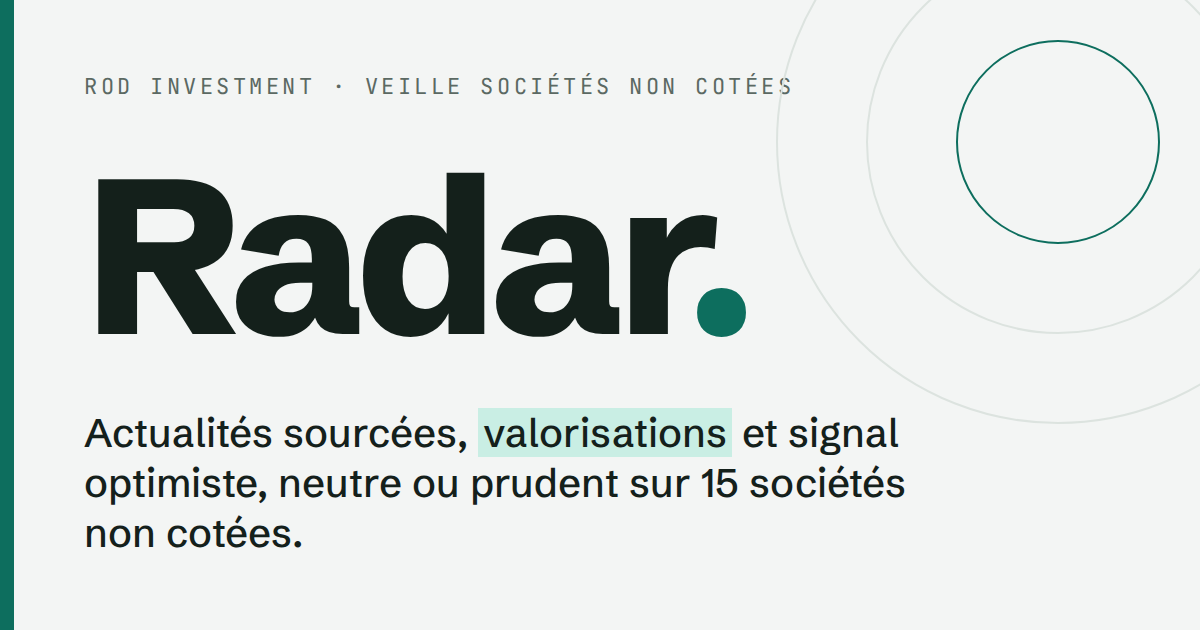
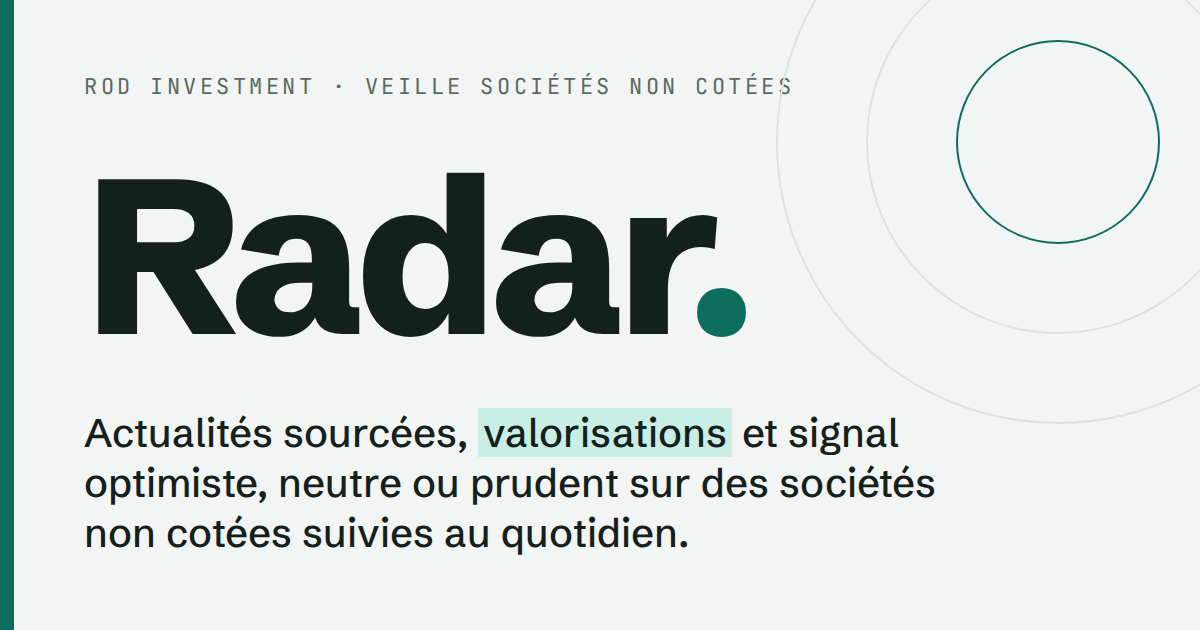
Veille : Perplexity ajouté ; requêtes multiples par société (#20)
- Perplexity : fiche, quatre valorisations (presse), chiffres clés, requêtes ; autorisé dans validate.py.
- news_feed.py --societe <id> lance toutes les requêtes de la société (newsQuery + newsQueriesExtra) et fusionne
  les résultats : Google News perd des titres quand on imbrique OR et parenthèses dans une seule requête.
  coverage.py fait de même et respecte enfin la fenêtre demandée.
- Requêtes complémentaires pour les 15 sociétés (dirigeants, produits, mots du métier).
- Textes « 15 sociétés » rendus dynamiques ; image d'aperçu sans nombre.

Claude-Session: https://claude.ai/code/session_01Js6YpPeErY5qnMZ34J9wu7

Changed region(s): [[0.2467, 0.8143, 0.5858, 0.8746], [0.5858, 0.7238, 0.8017, 0.8143]]

diff --git a/radar-site/app.js b/radar-site/app.js
@@ -420,7 +420,7 @@ if (location.protocol === 'http:' && location.hostname !== 'localhost') {
         el('span',{class:'t'}, a.title), el('span',{class:'sm'}, a.summary||''))); };
     app.replaceChildren(el('section',{class:'week'},
       el('div',{class:'cmp-head'},
-        el('div',null, el('span',{class:'eyebrow'},'Synthèse hebdomadaire'), el('h2',null,'La semaine du Radar'), el('p',{class:'lead'}, 'Semaine '+weekLabel(mon)+'. Les faits marquants des 15 sociétés suivies.')),
+        el('div',null, el('span',{class:'eyebrow'},'Synthèse hebdomadaire'), el('h2',null,'La semaine du Radar'), el('p',{class:'lead'}, 'Semaine '+weekLabel(mon)+'. Les faits marquants des '+S.companies.length+' sociétés suivies.')),
         el('div',{class:'hero-actions'},
           el('button',{class:'btn ghost small',type:'button',onclick:()=>go(addDays(mon,-7))},'‹ Semaine précédente'),
           el('button',{class:'btn ghost small',type:'button',disabled:mon>=cur,onclick:()=>go(addDays(mon,7))},'Semaine suivante ›'),
@@ -480,7 +480,7 @@ if (location.protocol === 'http:' && location.hostname !== 'localhost') {
     app.replaceChildren(el('section',{class:'cmp'},
       el('div',{class:'cmp-head'},
         el('div',null, el('h2',null,'Comparer les sociétés'),
-          el('p',{class:'lead'},'Les 15 sociétés suivies, avec leur dernière valorisation officielle et l\'activité de la veille. Cliquez sur un en-tête pour trier, sur une ligne pour ouvrir la fiche.')),
+          el('p',{class:'lead'},'Les '+S.companies.length+' sociétés suivies, avec leur dernière valorisation officielle et l\'activité de la veille. Cliquez sur un en-tête pour trier, sur une ligne pour ouvrir la fiche.')),
         linkBtn(articleUrl('comparer'), 'Comparatif Radar')),
       el('div',{class:'tbl-wrap'}, el('table',{class:'tbl'},
         el('thead',null, el('tr',null, th('name','Société'), th('valo','Valorisation officielle'), th('round','Tour'), el('th',null,'Selon la presse'), th('arts','Articles','num'), el('th',null,'Tonalité'), th('last','Dernière actualité'))),

diff --git a/radar-site/s/perplexity.html b/radar-site/s/perplexity.html
@@ -1,0 +1,30 @@
+<!doctype html>
+<html lang="fr">
+<head>
+<meta charset="utf-8">
+<meta name="viewport" content="width=device-width, initial-scale=1">
+<title>Perplexity · fiche société du Radar</title>
+<meta name="description" content="Moteur de réponses par IA, navigateur Comet et agents autonomes. 0 actualité suivie par le Radar.">
+<meta name="robots" content="noindex, follow">
+<link rel="canonical" href="https://radar.rod-investment.fr/s/perplexity">
+<meta property="og:site_name" content="Radar ROD Investment">
+<meta property="og:type" content="website">
+<meta property="og:locale" content="fr_FR">
+<meta property="og:title" content="Perplexity · fiche société du Radar">
+<meta property="og:description" content="Moteur de réponses par IA, navigateur Comet et agents autonomes. 0 actualité suivie par le Radar.">
+<meta property="og:url" content="https://radar.rod-investment.fr/s/perplexity">
+<meta property="og:image" content="https://radar.rod-investment.fr/og/radar.png">
+<meta property="og:image:width" content="1200">
+<meta property="og:image:height" content="630">
+<meta property="og:image:alt" content="Radar. ROD Investment, veille sociétés non cotées">
+
+<meta name="twitter:card" content="summary_large_image">
+<meta name="twitter:title" content="Perplexity · fiche société du Radar">
+<meta name="twitter:description" content="Moteur de réponses par IA, navigateur Comet et agents autonomes. 0 actualité suivie par le Radar.">
+<meta name="twitter:image" content="https://radar.rod-investment.fr/og/radar.png">
+<meta name="theme-color" content="#0D6E5E">
+<meta http-equiv="refresh" content="0; url=/#societe/perplexity">
+<style>body{margin:0;font:16px/1.5 system-ui,sans-serif;background:#F3F5F4;color:#14201B;display:grid;place-items:center;min-height:100vh;padding:16px;box-sizing:border-box}a{color:#0D6E5E}</style>
+</head>
+<body><p><a href="/#societe/perplexity">Ouvrir sur le Radar</a></p></body>
+</html>

diff --git a/radar-site/index.html b/radar-site/index.html
@@ -419,7 +419,7 @@ h1 .dot{color:var(--accent)}
 <div id="sheetRoot"></div>
 <div id="printRoot"></div>
 
-<script src="app.js?v=2026-10-07d" defer></script>
+<script src="app.js?v=2026-10-09a" defer></script>
 
 </body>
 </html>

diff --git a/scripts/news_feed.py b/scripts/news_feed.py
@@ -1,40 +1,62 @@
 #!/usr/bin/env python3
 """Liste les titres Google News récents sur une société, en français et en anglais.
 
-Usage : python3 scripts/news_feed.py '<requête>' [jours] [--liens]
-  <requête> : syntaxe Google News, par ex. '"Mistral AI" OR "Arthur Mensch"' ou
-              'Kraken (crypto OR exchange OR Payward)'. Jours par défaut : 2.
-Affiche une ligne par titre : date UTC | média | titre | site du média (et le lien Google News avec --liens).
-Les liens Google News sont des redirections : pour lire l'article, cherche le titre exact
-(WebSearch) ou ouvre le site du média indiqué.
+Usage :
+  python3 scripts/news_feed.py --societe <id> [jours] [--liens]
+      Lance toutes les requêtes de la société (champs "newsQuery" et "newsQueriesExtra" de companies.json)
+      et fusionne les résultats. C'est l'usage normal du passage de veille.
+  python3 scripts/news_feed.py '<requête>' [jours] [--liens]
+      Une requête libre, syntaxe Google News, par ex. '"Mistral AI" OR "Arthur Mensch"'.
+Jours par défaut : 2. Affiche une ligne par titre : date UTC | média | titre | site du média (et le lien Google News avec --liens).
+Les liens Google News sont des redirections : pour lire l'article, cherche le titre exact (WebSearch) ou ouvre le site du média.
+Plusieurs requêtes simples valent mieux qu'une seule longue : Google News perd des résultats quand on imbrique OR et parenthèses.
 """
-import sys, re, html, signal, urllib.parse, urllib.request
+import sys, os, re, json, html, signal, urllib.parse, urllib.request
 signal.signal(signal.SIGPIPE, signal.SIG_DFL)
 from email.utils import parsedate_to_datetime
 
-args = [a for a in sys.argv[1:] if a != '--liens']
-links = '--liens' in sys.argv
-name = args[0]
-days = args[1] if len(args) > 1 else '2'
-seen = set()
-rows = []
-for hl, gl, ceid in (('fr', 'FR', 'FR:fr'), ('en-US', 'US', 'US:en')):
-    q = urllib.parse.quote(f'{name} when:{days}d')
-    url = f'https://news.google.com/rss/search?q={q}&hl={hl}&gl={gl}&ceid={ceid}'
-    try:
-        xml = urllib.request.urlopen(url, timeout=20).read().decode('utf-8', 'replace')
-    except Exception as e:
-        print(f'# flux {hl} indisponible : {e}', file=sys.stderr); continue
-    for item in re.findall(r'<item>(.*?)</item>', xml, re.S):
-        g = lambda tag: (re.search(rf'<{tag}[^>]*>(.*?)</{tag}>', item, re.S) or [None, ''])[1]
-        title = html.unescape(g('title')).strip()
-        src = re.search(r'<source url="([^"]+)">(.*?)</source>', item)
-        try: d = parsedate_to_datetime(g('pubDate')).strftime('%Y-%m-%d %H:%M')
-        except Exception: d = '?'
-        key = title.lower()[:80]
-        if key in seen: continue
-        seen.add(key)
-        rows.append((d, html.unescape(src.group(2)) if src else '?', title, src.group(1) if src else '?', g('link').strip()))
-rows.sort(reverse=True)
-print(f'# {name} : {len(rows)} titres sur {days} jour(s)')
-for r in rows: print(' | '.join(r if links else r[:4]))
+def queries_for(cid):
+    p = os.path.join(os.path.dirname(os.path.abspath(__file__)), '..', 'radar-site', 'data', 'companies.json')
+    c = next((c for c in json.load(open(p, encoding='utf-8')) if c['id'] == cid), None)
+    if not c: sys.exit(f'société inconnue : {cid}')
+    return [q for q in [c.get('newsQuery')] + list(c.get('newsQueriesExtra', [])) if q]
+
+def fetch(query, days):
+    """Titres Google News (FR et EN) pour une requête : liste de (date, média, titre, site, lien)."""
+    rows = []
+    for hl, gl, ceid in (('fr', 'FR', 'FR:fr'), ('en-US', 'US', 'US:en')):
+        q = urllib.parse.quote(f'{query} when:{days}d')
+        url = f'https://news.google.com/rss/search?q={q}&hl={hl}&gl={gl}&ceid={ceid}'
+        try:
+            xml = urllib.request.urlopen(urllib.request.Request(url, headers={'User-Agent': 'Mozilla/5.0'}), timeout=20).read().decode('utf-8', 'replace')
+        except Exception as e:
+            print(f'# flux {hl} indisponible pour {query} : {e}', file=sys.stderr); continue
+        for item in re.findall(r'<item>(.*?)</item>', xml, re.S):
+            g = lambda tag: (re.search(rf'<{tag}[^>]*>(.*?)</{tag}>', item, re.S) or [None, ''])[1]
+            title = html.unescape(g('title')).strip()
+            src = re.search(r'<source url="([^"]+)">(.*?)</source>', item)
+            try: d = parsedate_to_datetime(g('pubDate')).strftime('%Y-%m-%d %H:%M')
+            except Exception: d = '?'
+            rows.append((d, html.unescape(src.group(2)) if src else '?', title, src.group(1) if src else '?', g('link').strip()))
+    return rows
+
+def merged(queries, days):
+    seen, out = set(), []
+    for q in queries:
+        for r in fetch(q, days):
+            key = r[2].lower()[:80]
+            if key in seen: continue
+            seen.add(key); out.append(r)
+    return sorted(out, reverse=True)
+
+if __name__ == '__main__':
+    args = [a for a in sys.argv[1:] if a != '--liens']
+    links = '--liens' in sys.argv
+    if args and args[0] == '--societe':
+        name, queries, rest = args[1], queries_for(args[1]), args[2:]
+    else:
+        name, queries, rest = args[0], [args[0]], args[1:]
+    days = rest[0] if rest else '2'
+    rows = merged(queries, days)
+    print(f'# {name} : {len(rows)} titres sur {days} jour(s), {len(queries)} requête(s)')
+    for r in rows: print(' | '.join(r if links else r[:4]))

diff --git a/scripts/coverage.py b/scripts/coverage.py
@@ -30,10 +30,10 @@ def toks(s): return {w[:5] for w in re.findall(r"[a-z0-9]+", fold(s)) if len(w) 
 JUNK = re.compile(r"how to (buy|invest)|comment (acheter|investir)|investir dans|investing in|pre-?ipo shares|stock price|share price|"
     r"\bbest\b.*\b(services|tools|alternatives)\b|\btop \d+|alternatives? to|vs\.? |review\b|prediction:|price prediction", re.I)
 
-def feed(query):
+def feed(queries):
     out = []
-    for hl, gl, ceid in (('fr', 'FR', 'FR:fr'), ('en-US', 'US', 'US:en')):
-        q = urllib.parse.quote(f'{query} when:2d')
+    for query, (hl, gl, ceid) in [(q, l) for q in queries for l in (('fr', 'FR', 'FR:fr'), ('en-US', 'US', 'US:en'))]:
+        q = urllib.parse.quote(f'{query} when:{max(1, -(-HOURS // 24))}d')
         url = f'https://news.google.com/rss/search?q={q}&hl={hl}&gl={gl}&ceid={ceid}'
         try: xml = urllib.request.urlopen(urllib.request.Request(url, headers={'User-Agent': 'Mozilla/5.0'}), timeout=20).read().decode('utf-8', 'replace')
         except Exception as e: print(f'# {query} ({hl}) indisponible : {e}', file=sys.stderr); continue
@@ -58,11 +58,12 @@ for c in cos:
     known = [(toks(' '.join([a['title'], a.get('summary', ''), a.get('detail', '')]) + ' ' + ' '.join(s.get('label', '') + ' ' + s.get('url', '') for s in a.get('sources', []))), a) for a in mine]
     hosts = {urllib.parse.urlparse(s.get('url', '')).netloc.replace('www.', '') for a in mine for s in a.get('sources', [])}
     # Le titre doit nommer la société (nom, termes entre guillemets de la requête, ou premier mot du nom s'il est distinctif).
-    alias = {fold(x) for x in re.findall(r'"([^"]+)"', c['newsQuery'])} | {fold(c['name'])}
+    alias = {fold(x) for q in [c['newsQuery']] + list(c.get('newsQueriesExtra', [])) for x in re.findall(r'"([^"]+)"', q)} | {fold(c['name'])}
     first = fold(c['name']).split()[0]
     if len(first) >= 6 and first not in {'together', 'figure', 'shield', 'apollo', 'prometheus'}: alias.add(first)
     cands = []
-    for it in sorted(feed(c['newsQuery']), key=lambda x: x['date'], reverse=True):
+    queries = [c['newsQuery']] + list(c.get('newsQueriesExtra', []))
+    for it in sorted(feed(queries), key=lambda x: x['date'], reverse=True):
         total += 1
         if it['date'] < since or not EVENT.search(it['title']) or JUNK.search(it['title']): continue
         if not any(re.search(r'\b' + re.escape(x) + r'\b', fold(it['title'])) for x in alias): continue

diff --git a/scripts/validate.py b/scripts/validate.py
@@ -16,7 +16,7 @@ ids = {c['id'] for c in cos}
 # Sociétés autorisées sur le site public. Toute autre société (par exemple suivie seulement sur la page privée)
 # bloque la publication : l'ajouter ici est une décision explicite de Max, pas de la tâche de veille.
 PUBLIC_IDS = {'prometheus', 'together-ai', 'figure-ai', 'mistral-ai', 'deel', 'erebor', 'apollo-research', 'neura-robotics',
-              'stripe', 'starcloud', 'lovable', 'kraken', 'polymarket', 'shield-ai', 'anthropic'}
+              'stripe', 'starcloud', 'lovable', 'kraken', 'polymarket', 'shield-ai', 'anthropic', 'perplexity'}
 for i in sorted(ids - PUBLIC_IDS):
     err(f"société {i}: non autorisée sur le site public (page privée uniquement) ; retire-la de companies.json et ses articles de articles.json")
 BANNED = ['—', '–', 'Fundora']

diff --git a/README.md b/README.md
@@ -7,7 +7,7 @@ Site statique de veille sur des sociétés non cotées, publié sur https://rada
 - `radar-site/` : dossier publié par Cloudflare.
 - `scripts/validate.py` : contrôle des données, à lancer avant chaque commit.
 - `index.html` : la page (aucun serveur, aucune dépendance externe).
-- `data/companies.json` : sociétés suivies (tableau d'objets `id`, `name`, `sector`, `order`, `oneLiner`, `description`, `hq`, `founded`, `leaders`, `website`, et `lastRound` facultatif : id de l'article de la dernière levée, affiché sur la fiche société ; `valuations` : liste de valorisations `{amount, value (en milliards), currency (USD ou EUR), round, date, dateLabel?, status: "officielle" | "presse", source: {label, url}}`, la fiche affiche la dernière officielle et, si elle est plus récente, la dernière rapportée par la presse ; `valuationNote` quand aucune n'est connue ; `metrics` : chiffres clés `{label, value, date, dateLabel?, status, source, articleId?}` ; `newsQuery` : requête Google News de la société).
+- `data/companies.json` : sociétés suivies (tableau d'objets `id`, `name`, `sector`, `order`, `oneLiner`, `description`, `hq`, `founded`, `leaders`, `website`, et `lastRound` facultatif : id de l'article de la dernière levée, affiché sur la fiche société ; `valuations` : liste de valorisations `{amount, value (en milliards), currency (USD ou EUR), round, date, dateLabel?, status: "officielle" | "presse", source: {label, url}}`, la fiche affiche la dernière officielle et, si elle est plus récente, la dernière rapportée par la presse ; `valuationNote` quand aucune n'est connue ; `metrics` : chiffres clés `{label, value, date, dateLabel?, status, source, articleId?}` ; `newsQuery` et `newsQueriesExtra` : requêtes Google News de la société, lancées ensemble par `python3 scripts/news_feed.py --societe <id> <jours>` ; plusieurs requêtes simples valent mieux qu'une longue).
 - `data/articles.json` : articles, triés du plus récent au plus ancien.
 - `data/status.json` : `{ "lastRun": "<ISO UTC>", "note": "<texte>" }`.
 - `fonts/` : polices auto-hébergées (licence SIL OFL).
